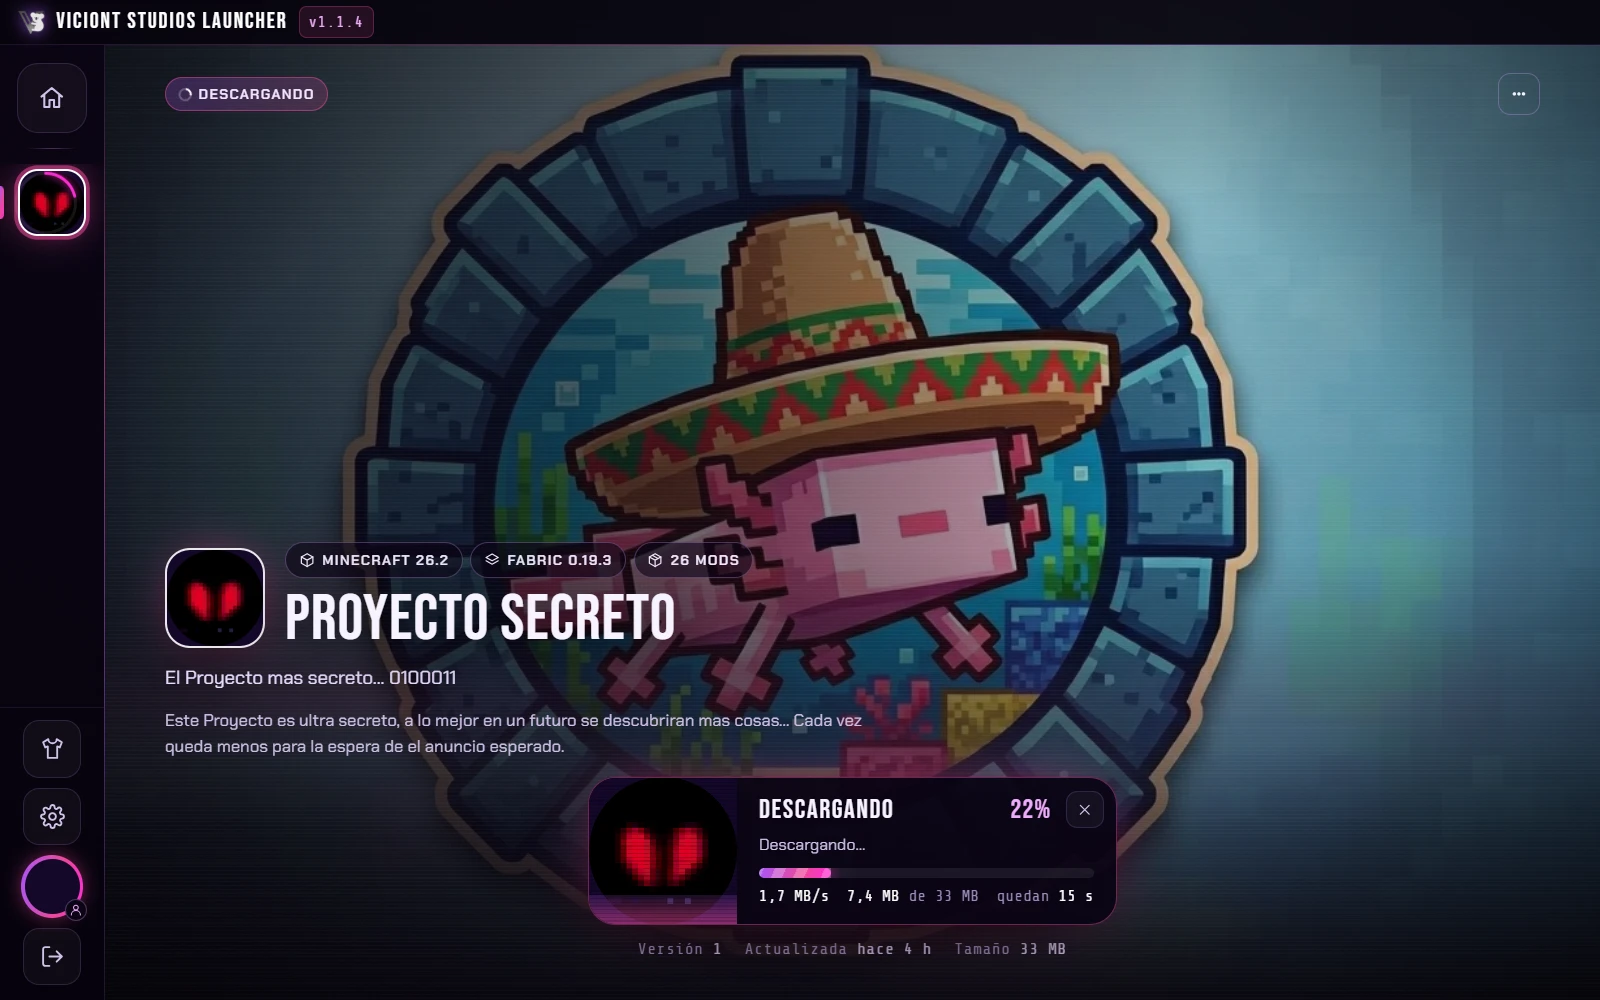
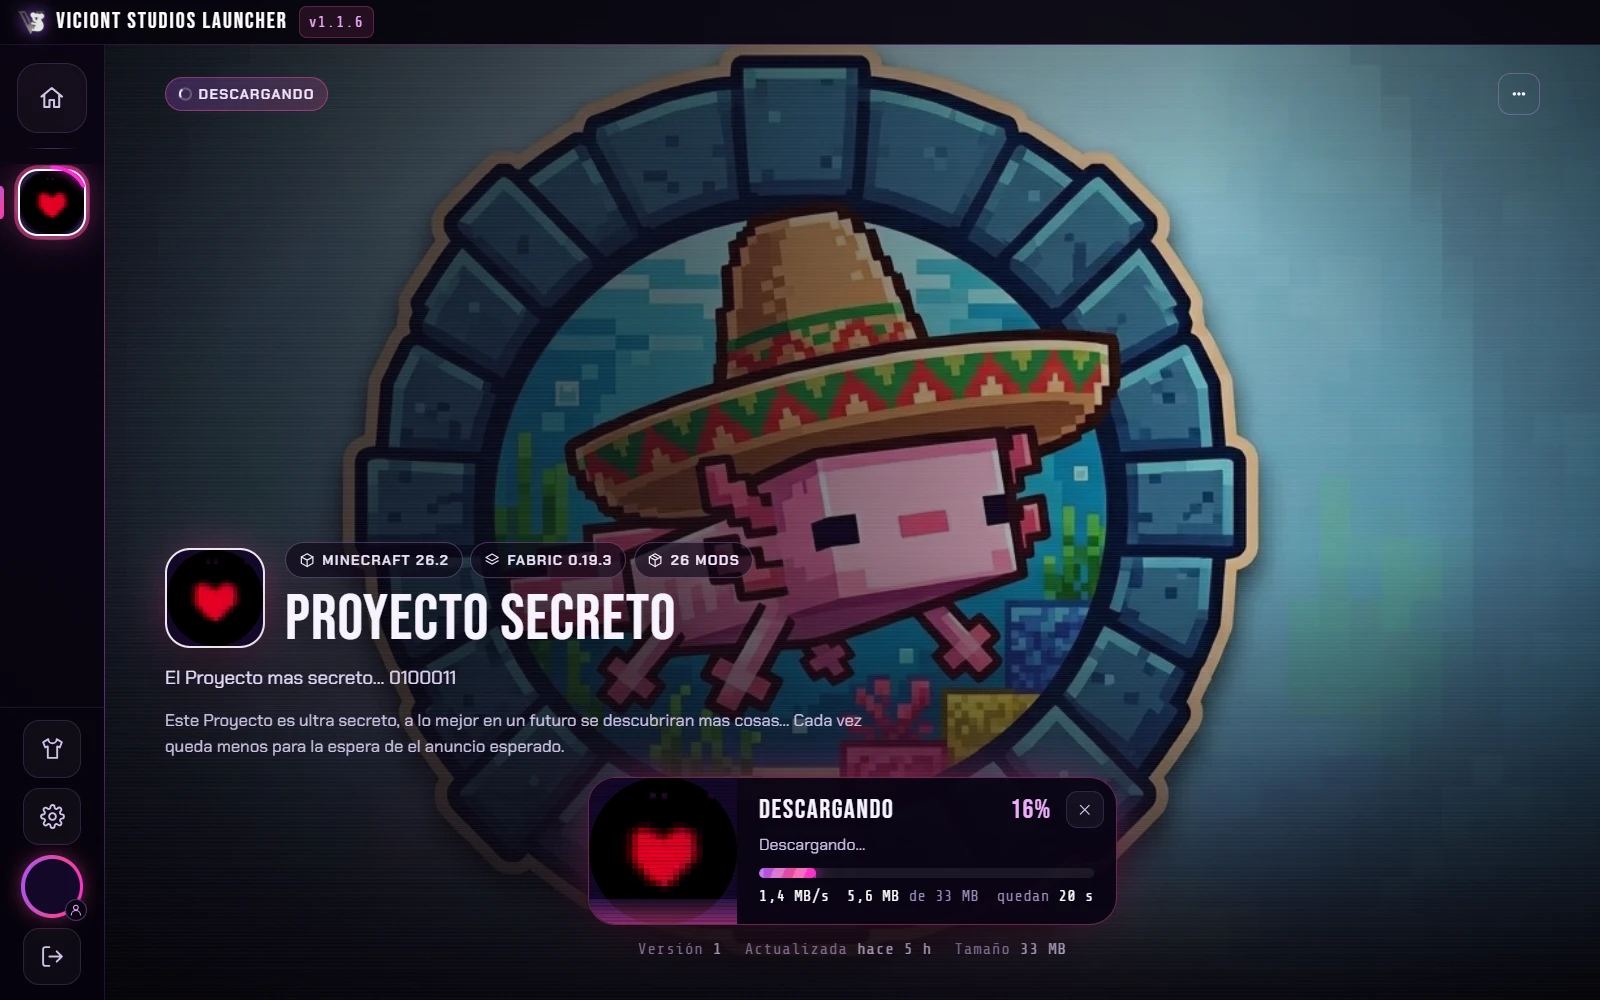
Viciont Studios Launcher 1.1.6
- Inicio: el pie con las redes queda siempre abajo, los textos de arriba son un poco más grandes y la lista de instancias está más abajo.
- Barra lateral: el círculo de descarga queda centrado en la imagen.
- Apariencia: banner propio para la tarjeta de la instancia (necesita el servidor v6).
- Acerca de: "Inspirado en Modrinth App".
- Capturas nuevas; solo las que ven los jugadores.

diff --git a/src/renderer/css/app.css b/src/renderer/css/app.css
@@ -147,7 +147,7 @@
 .rail-inst.is-active::before { content: ''; position: absolute; left: -17px; top: 12px; bottom: 12px; width: 4px; border-radius: 0 4px 4px 0; background: var(--grad); box-shadow: var(--glow-pink); }
 .rail-inst__badge { position: absolute; right: -4px; top: -4px; width: 14px; height: 14px; border-radius: 50%; border: 2px solid #0a0414; background: var(--pink-hot); box-shadow: 0 0 10px var(--pink-hot); }
 .rail-inst__badge.is-running { background: #fff; animation: pulse 2s infinite; }
-.rail-inst__ring { position: absolute; inset: -5px; width: calc(100% + 10px); height: calc(100% + 10px); pointer-events: none; transform: rotate(-90deg); }
+.rail-inst__ring { position: absolute; inset: -5px; width: calc(100% + 10px); height: calc(100% + 10px); max-width: none; pointer-events: none; transform: rotate(-90deg); }
 .rail-inst__ring circle { fill: none; stroke-width: 3; }
 .rail-inst__ring .bgc { stroke: rgba(255, 255, 255, 0.08); }
 .rail-inst__ring .fgc { stroke: var(--pink-hot); stroke-linecap: round; filter: drop-shadow(0 0 4px var(--pink-hot)); transition: stroke-dashoffset 0.3s; }
@@ -199,16 +199,16 @@
 .title-xl .hl, .title-lg .hl, .title-md .hl { background: var(--grad); -webkit-background-clip: text; background-clip: text; color: transparent; }
 .lead { color: var(--text-2); max-width: 60ch; }
 
-.home { padding: 0; }
-.home__hero { position: relative; display: flex; align-items: center; gap: 18px; padding: 30px 44px 14px; }
-.home__emblem { width: 62px; flex: none; }
-.home__brand { display: grid; gap: 6px; min-width: 0; }
-.home__title { font: 400 2.45rem/0.9 var(--font-display); letter-spacing: 0.03em; text-transform: uppercase; white-space: nowrap; }
-.home__tagline { font: 400 0.7rem/1.4 var(--font-mono); letter-spacing: 0.2em; text-transform: uppercase; color: #f0abfc; min-height: 1.4em; }
-.home__welcome { font-size: 0.86rem; color: var(--text-2); }
+.home { min-height: 100%; display: flex; flex-direction: column; padding: 0; }
+.home__hero { position: relative; display: flex; align-items: center; gap: 22px; padding: 38px 44px 14px; }
+.home__emblem { width: 78px; flex: none; }
+.home__brand { display: grid; gap: 8px; min-width: 0; }
+.home__title { font: 400 3rem/0.9 var(--font-display); letter-spacing: 0.03em; text-transform: uppercase; white-space: nowrap; }
+.home__tagline { font: 400 0.8rem/1.4 var(--font-mono); letter-spacing: 0.2em; text-transform: uppercase; color: #f0abfc; min-height: 1.4em; }
+.home__welcome { font-size: 0.96rem; color: var(--text-2); }
 .home__welcome b { color: #fff; }
 
-.home__section { padding: 14px 44px 30px; }
+.home__section { padding: 36px 44px 30px; }
 .section-head { display: flex; align-items: center; justify-content: space-between; gap: 16px; margin-bottom: 16px; }
 .section-head .title-md { display: flex; align-items: center; gap: 12px; }
 .section-head .title-md::before { content: ''; width: 26px; height: 2px; background: var(--grad); box-shadow: var(--glow-pink); }
@@ -239,7 +239,13 @@
 .cover-mini span { font: 400 1.6em/1 var(--font-display); letter-spacing: 0.04em; color: #fff; text-shadow: -1px 0 rgba(255, 43, 214, 0.8), 1px 0 rgba(122, 92, 255, 0.8); }
 .icard__media .cover-mini span { font-size: 3rem; }
 
-.home__footer { display: flex; align-items: center; justify-content: space-between; gap: 16px; flex-wrap: wrap; padding: 18px 44px 26px; border-top: 1px solid rgba(196, 140, 255, 0.1); color: var(--muted); font-size: 0.82rem; }
+.home__footer {
+  position: sticky; bottom: 0; z-index: 3; margin-top: auto;
+  display: flex; align-items: center; justify-content: space-between; gap: 16px; flex-wrap: wrap; padding: 14px 44px 16px;
+  border-top: 1px solid rgba(196, 140, 255, 0.14); background: rgba(7, 3, 13, 0.95);
+  color: var(--muted); font-size: 0.82rem;
+}
+.home__footer::before { content: ''; position: absolute; left: 0; right: 0; bottom: 100%; height: 26px; background: linear-gradient(0deg, rgba(7, 3, 13, 0.55), transparent); pointer-events: none; }
 .home__footer b { color: #f0abfc; font-weight: 600; }
 .socials { display: flex; gap: 8px; }
 .social-btn { width: 40px; height: 40px; display: grid; place-items: center; border-radius: 11px; border: 1px solid var(--line); background: rgba(255, 255, 255, 0.035); color: var(--text-2); transition: 0.25s var(--ease); }
@@ -460,6 +466,12 @@
 .media-pick img, .media-pick video { position: absolute; inset: 0; width: 100%; height: 100%; object-fit: cover; }
 .media-pick--icon { width: 160px; height: 160px; border-radius: 34px; }
 .media-pick--bg { width: 100%; aspect-ratio: 16 / 9; }
+.media-pick--banner { width: 100%; aspect-ratio: 16 / 9; }
+.media-pick.is-disabled { opacity: 0.45; cursor: not-allowed; }
+.media-pick.is-disabled:hover { border-color: var(--line-strong); color: var(--muted); }
+.look-grid { display: grid; grid-template-columns: auto minmax(0, 1fr) minmax(0, 1fr); gap: 20px; align-items: start; }
+.look-grid .field__row { align-items: flex-start; }
+.look-grid .field__row .btn { flex: none; }
 .media-pick__label { position: relative; z-index: 2; display: grid; gap: 6px; justify-items: center; padding: 10px; font-size: 0.82rem; }
 .media-pick__label .i { width: 26px; height: 26px; color: var(--pink-hot); }
 .media-pick.has-media .media-pick__label { opacity: 0; background: rgba(6, 2, 12, 0.72); border-radius: 12px; transition: opacity 0.2s; }

diff --git a/src/main/services/admin.js b/src/main/services/admin.js
@@ -36,6 +36,8 @@ const MERGE_FILES = new Set(['options.txt', 'optionsof.txt', 'optionsshaders.txt
 const ONCE_FILES = new Set(['servers.dat']);
 const UUID_RE = /^[0-9a-f]{8}-?[0-9a-f]{4}-?[0-9a-f]{4}-?[0-9a-f]{4}-?[0-9a-f]{12}$/i;
 const MEDIA_EXT = { 'image/png': 'png', 'image/jpeg': 'jpg', 'image/webp': 'webp', 'image/gif': 'gif', 'video/mp4': 'mp4', 'video/webm': 'webm' };
+const MEDIA_KINDS = ['icon', 'background', 'banner'];
+const MEDIA_LABELS = { icon: 'Icono', background: 'Fondo', banner: 'Banner' };
 const PROTECTABLE = ['mods', 'config', 'resourcepacks'];
 
 const SKIP_TOP = new Set(['logs', 'crash-reports', 'screenshots', '.cache', 'cache', 'local', 'downloads', 'backups', '.vsl',
@@ -80,6 +82,7 @@ function cleanMeta(m = {}, id) {
 const mediaFrom = (inst) => ({
   icon: inst?.media?.icon ? { key: inst.media.icon } : null,
   background: inst?.media?.background ? { key: inst.media.background, type: inst.media.backgroundType } : null,
+  banner: inst?.media?.banner ? { key: inst.media.banner } : null,
 });
 
 const defaultPolicy = (rel) => {
@@ -306,7 +309,7 @@ class Admin extends EventEmitter {
     if (!inst?.version) return true;
     if (JSON.stringify(cleanMeta(d.meta, d.id)) !== JSON.stringify(cleanMeta(inst, d.id))) return true;
     const pub = mediaFrom(inst);
-    return ['icon', 'background'].some((k) => d.media?.[k]?.local || (d.media?.[k]?.key || null) !== (pub[k]?.key || null));
+    return MEDIA_KINDS.some((k) => d.media?.[k]?.local || (d.media?.[k]?.key || null) !== (pub[k]?.key || null));
   }
 
   metaChanges(d, inst) {
@@ -342,9 +345,9 @@ class Admin extends EventEmitter {
       out.push(c);
     }
     const pub = mediaFrom(inst);
-    for (const k of ['icon', 'background']) {
+    for (const k of MEDIA_KINDS) {
       const m = d.media?.[k];
-      if (m?.local || (m?.key || null) !== (pub[k]?.key || null)) out.push({ key: k, label: k === 'icon' ? 'Icono' : 'Fondo', from: pub[k] ? 'el publicado' : 'sin imagen', to: m ? 'uno nuevo' : 'sin imagen' });
+      if (m?.local || (m?.key || null) !== (pub[k]?.key || null)) out.push({ key: k, label: MEDIA_LABELS[k], from: pub[k] ? 'el publicado' : 'sin imagen', to: m ? 'uno nuevo' : 'sin imagen' });
     }
     return out;
   }
@@ -454,10 +457,10 @@ class Admin extends EventEmitter {
   }
 
   async setMedia(id, kind, { bytes, type }) {
-    if (!['icon', 'background'].includes(kind)) throw err('Tipo de imagen no válido');
+    if (!MEDIA_KINDS.includes(kind)) throw err('Tipo de imagen no válido');
     const ext = MEDIA_EXT[type];
     if (!ext) throw err('Formato no admitido. Usa PNG, JPG, WEBP, GIF, MP4 o WEBM.');
-    if (kind === 'icon' && /^video/.test(type)) throw err('El icono debe ser una imagen o un GIF.');
+    if (kind !== 'background' && /^video/.test(type)) throw err(`El ${kind === 'icon' ? 'icono' : 'banner'} debe ser una imagen o un GIF.`);
     const buf = Buffer.from(bytes);
     const max = /^video/.test(type) ? 80 : ext === 'gif' ? 15 : 8;
     if (buf.length > max * 1024 * 1024) throw err(`El archivo es demasiado grande (máximo ${max} MB).`);
@@ -473,6 +476,7 @@ class Admin extends EventEmitter {
   }
 
   async clearMedia(id, kind) {
+    if (!MEDIA_KINDS.includes(kind)) throw err('Tipo de imagen no válido');
     const { d, inst } = await this.metaDraft(id);
     d.media = d.media || {};
     d.media[kind] = null;
@@ -1190,7 +1194,7 @@ class Admin extends EventEmitter {
         if ((await hashFile(e.local)) !== sha) throw err(`"${e.path}" cambió mientras se publicaba. Vuelve a intentarlo.`, 'ECHANGED');
         todo.push({ sha, file: e.local, size: s.size, name: e.path });
       });
-      const mediaTodo = ['icon', 'background'].map((k) => [k, d.media?.[k]]).filter(([, m]) => m?.local);
+      const mediaTodo = MEDIA_KINDS.map((k) => [k, d.media?.[k]]).filter(([, m]) => m?.local);
       progress.addTotal(todo.reduce((a, t) => a + t.size, 0) + mediaTodo.reduce((a, [, m]) => a + (m.size || 0), 0), todo.length);
       progress.setPhase('upload', todo.length ? `Subiendo ${todo.length} archivo(s)…` : 'Subiendo imágenes…');
       await this.uploadAll(id, todo, progress);
@@ -1222,7 +1226,7 @@ class Admin extends EventEmitter {
   }
 
   async uploadMedia(id, d, progress) {
-    for (const kind of ['icon', 'background']) {
+    for (const kind of MEDIA_KINDS) {
       const m = d.media?.[kind];
       if (!m?.local) continue;
       const file = path.join(this.dirs().media, m.name);
@@ -1236,7 +1240,7 @@ class Admin extends EventEmitter {
 
   mediaNames(d) {
     const out = {};
-    for (const kind of ['icon', 'background']) {
+    for (const kind of MEDIA_KINDS) {
       const m = d.media?.[kind];
       out[kind] = m?.key ? m.key.split('/')[1] : null;
     }

diff --git a/src/renderer/js/views/admin.js b/src/renderer/js/views/admin.js
@@ -526,9 +526,11 @@ function renderEditor(root, id, app, route = {}) {
     const src = (m) => (m?.local ? `vsl-media://local/admin/${m.name}` : mediaUrl(m?.key));
     const iconM = d.media?.icon;
     const bgM = d.media?.background;
+    const bannerM = d.media?.banner;
     const bgIsVideo = bgM && isVideo(bgM.type, bgM.name || bgM.key);
+    const bannerOk = (d.apiVersion || 0) >= 6;
     body.innerHTML = `
-      <div class="editor__cols" style="grid-template-columns:auto 1fr;align-items:start">
+      <div class="look-grid">
         <div class="field"><span class="field__label">Icono</span>
           <div class="media-pick media-pick--icon ${iconM ? 'has-media' : ''}" data-pick="icon">
             ${iconM ? `<img src="${src(iconM)}" alt="">` : ''}
@@ -543,6 +545,14 @@ function renderEditor(root, id, app, route = {}) {
           </div>
           <div class="field__row">${bgM ? '<button class="btn btn--sm btn--ghost" type="button" data-clear="background">Quitar</button>' : ''}<span class="field__hint">Se ve detrás del botón Jugar. Las imágenes se optimizan solas; para vídeo usa algo corto que se pueda repetir en bucle.</span></div>
         </div>
+        <div class="field"><span class="field__label">Banner de la tarjeta</span>
+          <div class="media-pick media-pick--banner ${bannerM ? 'has-media' : ''} ${bannerOk ? '' : 'is-disabled'}" ${bannerOk ? 'data-pick="banner"' : ''}>
+            ${bannerM ? `<img src="${src(bannerM)}" alt="">` : ''}
+            <span class="media-pick__label">${icon('image')}Elegir banner<small>PNG, JPG, WEBP o GIF</small></span>
+          </div>
+          <div class="field__row">${bannerM ? '<button class="btn btn--sm btn--ghost" type="button" data-clear="banner">Quitar</button>' : ''}<span class="field__hint">Es la imagen de la tarjeta en <b>Inicio → Instancias disponibles</b> (se ve recortada a 16:9). Si no eliges ninguno, se usa el fondo.</span></div>
+          ${bannerOk ? '' : `<p class="inst__warn">${icon('alert')}Para usarlo hay que actualizar el servidor de Viciont Studios (versión 6 o más nueva).</p>`}
+        </div>
       </div>`;
     body.querySelectorAll('[data-pick]').forEach((el) => el.addEventListener('click', () => pickMedia(el.dataset.pick)));
     body.querySelectorAll('[data-clear]').forEach((el) => el.addEventListener('click', async () => {
@@ -554,7 +564,7 @@ function renderEditor(root, id, app, route = {}) {
   const pickMedia = (kind) => {
     const inp = document.createElement('input');
     inp.type = 'file';
-    inp.accept = kind === 'icon' ? 'image/png,image/jpeg,image/webp,image/gif' : 'image/png,image/jpeg,image/webp,image/gif,video/mp4,video/webm';
+    inp.accept = kind === 'background' ? 'image/png,image/jpeg,image/webp,image/gif,video/mp4,video/webm' : 'image/png,image/jpeg,image/webp,image/gif';
     inp.addEventListener('change', async () => {
       const file = inp.files[0];
       if (!file) return;
@@ -1326,7 +1336,7 @@ async function publish(id, d, onDone) {
 async function processMedia(file, kind) {
   const type = file.type || '';
   if (/^video\//.test(type)) {
-    if (kind === 'icon') throw new Error('El icono debe ser una imagen o un GIF.');
+    if (kind !== 'background') throw new Error(`El ${kind === 'icon' ? 'icono' : 'banner'} debe ser una imagen o un GIF.`);
     if (file.size > 80 * 1024 * 1024) throw new Error('El vídeo pesa más de 80 MB. Recórtalo o comprímelo.');
     return { bytes: new Uint8Array(await file.arrayBuffer()), type };
   }
@@ -1347,7 +1357,7 @@ async function processMedia(file, kind) {
       ctx.imageSmoothingQuality = 'high';
       ctx.drawImage(img, (img.width - s) / 2, (img.height - s) / 2, s, s, 0, 0, 256, 256);
     } else {
-      const scale = Math.min(1, 1920 / img.width);
+      const scale = Math.min(1, (kind === 'banner' ? 960 : 1920) / img.width);
       c.width = Math.round(img.width * scale);
       c.height = Math.round(img.height * scale);
       const ctx = c.getContext('2d');

diff --git a/src/renderer/js/views/settings.js b/src/renderer/js/views/settings.js
@@ -467,7 +467,7 @@ const PANES = {
       <div class="settings__section" style="justify-items:start">
         <img src="img/logo-full.webp" alt="Viciont Studios" style="width:260px;filter:drop-shadow(0 0 20px rgba(168,85,247,.6))">
         <h3>Viciont Studios Launcher ${esc(info.version)}</h3>
-        <p class="field__hint">Launcher oficial de Viciont Studios, creado por <b>CrissyjuanxD</b>. Inspirado en el funcionamiento de Modrinth App (código abierto).</p>
+        <p class="field__hint">Launcher oficial de Viciont Studios, creado por <b>CrissyjuanxD</b>. Inspirado en Modrinth App.</p>
         <div class="field__row">
           <button class="btn btn--sm" type="button" data-link="https://github.com/CrissyjuanxD/Viciont-Studio-Launcher">${icon('github')}Código en GitHub</button>
           <button class="btn btn--sm btn--ghost" type="button" data-link="${esc(info.site)}">${icon('globe')}Web de Viciont Studios</button>

diff --git a/src/renderer/js/util.js b/src/renderer/js/util.js
@@ -81,6 +81,8 @@ export function instIcon(inst) {
 }
 
 export function instThumb(inst) {
+  const banner = mediaUrl(inst?.media?.banner);
+  if (banner) return `<img src="${banner}" alt="" loading="lazy" decoding="async">`;
   const bg = inst?.media?.background;
   if (bg && !isVideo(inst.media.backgroundType, bg)) return `<img src="${mediaUrl(bg)}" alt="" loading="lazy" decoding="async">`;
   if (inst?.media?.thumb) return `<img src="${mediaUrl(inst.media.thumb)}" alt="" loading="lazy" decoding="async">`;

diff --git a/README.md b/README.md
@@ -35,7 +35,7 @@ Requisitos: Windows 10 u 11 de 64 bits. No necesitas tener Java instalado: el la
 | ![Inicio de sesión](docs/screens/login.webp) | ![Inicio](docs/screens/inicio.webp) |
 | ![Instancia](docs/screens/instancia.webp) | ![Descargando](docs/screens/descargando.webp) |
 | ![Jugando](docs/screens/jugando.webp) | ![Skins](docs/screens/skins.webp) |
-| ![Administración: contenido](docs/screens/admin-contenido.webp) | ![Administración: Modrinth](docs/screens/admin-modrinth.webp) |
+| ![Ajustes](docs/screens/ajustes.webp) | |
 
 ## Qué hace
 
@@ -45,7 +45,7 @@ Requisitos: Windows 10 u 11 de 64 bits. No necesitas tener Java instalado: el la
 - **Skins** para las dos cuentas, con visor 3D, biblioteca y "copiar skin de un nick", como en Modrinth:
   - Premium: la skin y la capa se cambian en tu cuenta de Minecraft y se ven en todas partes.
   - No premium: la skin se guarda en el servidor de Viciont Studios y la ven quienes juegan con este launcher, gracias a CustomSkinLoader, que se añade solo a las instancias con mods. Quien use otro launcher te verá con la skin por defecto.
-- **Inicio** con todas las instancias que puedes jugar: en cada una se ve cuándo jugaste por última vez y cuánto tiempo llevas jugado.
+- **Inicio** con todas las instancias que puedes jugar: en cada una se ve cuándo jugaste por última vez y cuánto tiempo llevas jugado. Abajo siempre queda el pie con las redes de Viciont Studios, aunque haya muchas instancias.
 - **Barra lateral** con las instancias que tienes permiso para ver, la casita para volver al inicio, las skins, los ajustes, tu cabeza de la skin (al pasar el cursor dice qué cuenta tienes) y el botón de cerrar sesión.
 - **Un solo botón** que cambia según el estado: **Descargar → Actualizar → Jugar → Jugando**. Mientras descarga se convierte en una tarjeta con la imagen de la instancia, el progreso, los MB/s y el tiempo que queda.
 - Cada instancia tiene su **fondo propio**: imagen, GIF o vídeo.
@@ -61,7 +61,7 @@ Requisitos: Windows 10 u 11 de 64 bits. No necesitas tener Java instalado: el la
 - **Tu carpeta es la instancia**: cada instancia se sincroniza con una carpeta de tu PC. La cambias desde el launcher, desde el Explorador de Windows o jugando, y al publicar solo se sube lo que cambió (lo nuevo, lo modificado y lo que quitaste). A los jugadores solo se les actualizan esos archivos. Si otro administrador publica antes, **Traer cambios** respeta lo tuyo.
 - Añadir **mods, resource packs y shaders de Modrinth** (se descargan a tu carpeta con sus dependencias) o **archivos propios**: mods, `config`, `options.txt`, `kubejs`, mapas, etc.
 - **Importar desde Modrinth App** sin exportar nada: sale la lista de tus instancias de Modrinth App con su versión, su cargador y su icono. También se puede importar un modpack `.mrpack` o una carpeta de CurseForge, Prism o `.minecraft`. Al publicar, los mods que existen en Modrinth se enlazan a su CDN en vez de subirlos.
-- **Icono y fondo** (PNG, JPG, WEBP, GIF o vídeo MP4/WEBM). Las imágenes se optimizan solas.
+- **Icono, fondo y banner** (la imagen de la tarjeta en *Instancias disponibles*): PNG, JPG, WEBP o GIF, y el fondo también en vídeo MP4/WEBM. Las imágenes se optimizan solas. El banner necesita el servidor v6.
 - Instancias **públicas** o **privadas** (solo para los nicks que elijas).
 - **Publicar versiones**: solo se suben los archivos nuevos o cambiados (los pequeños en lotes, así que publicar miles de archivos es rápido). Los jugadores ven **Actualizar** y el texto de novedades.
 - **Qué cambió exactamente**: antes de publicar, **Ver cambios** lista los archivos nuevos, modificados y los que se quitan, y los textos o permisos que cambiaste. En las configs se ven las **líneas que cambiaron** (lo nuevo en verde, lo quitado en rojo), como en Git.
